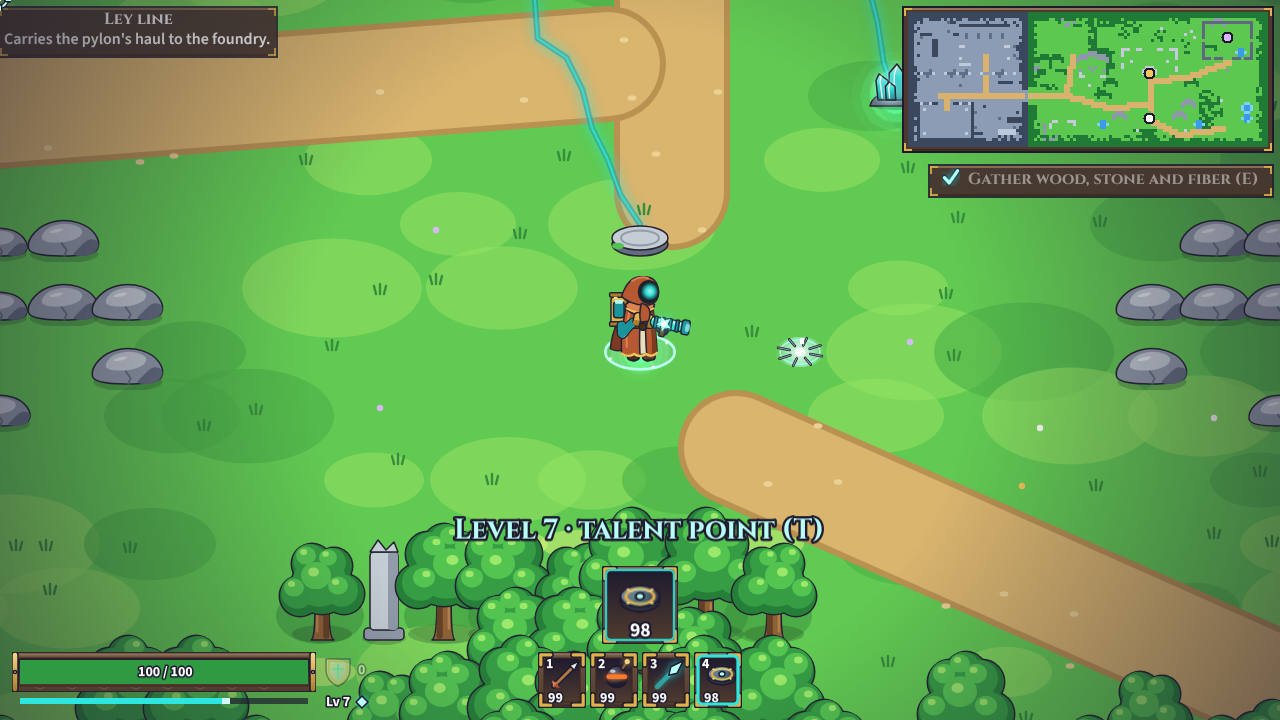
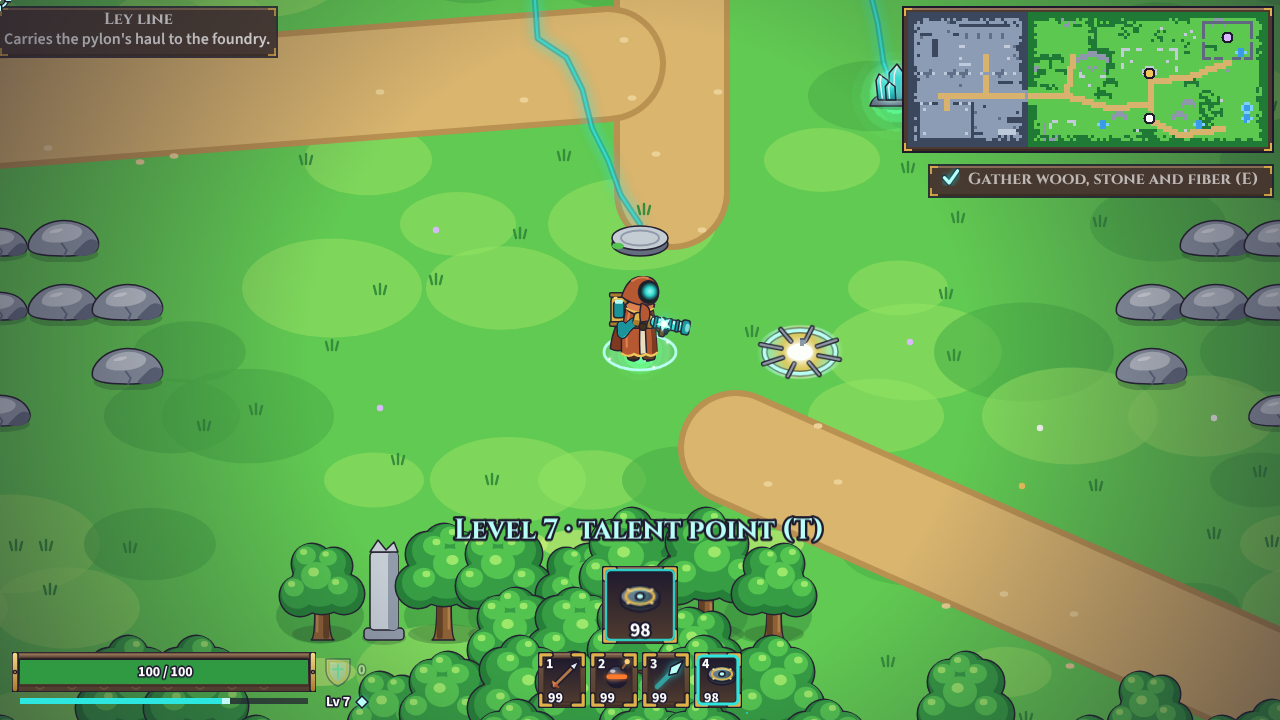
038 review: blastArea in its own file (no bombs/mines/keystones import cycle); the landmine's speed, range, arc and rate from the bomb's definition; a room change takes cluster bombs still in flight too; armMine takes the narrowed ammo; MineView's depths and the fuse's last second (TICK_RATE) as dat
Claude-Session: https://claude.ai/code/session_019emckfuk4AmLgqPgaDD5WF

diff --git a/src/data/art/mines.ts b/src/data/art/mines.ts
@@ -62,17 +62,21 @@ const BOMBLET: Shape[] = [
   ellipse(1.6, -2.4, 0.8, 0.8, { fill: 'cinder-light', glow: { color: 'cinder', blur: 2 } }),
 ];
 
-/** A burst flash `r` px round: a hot core, a ring of light and `shards` iron or ember splinters flying out. */
-function flash(r: number, core: string, rim: string, shards: number, shard: string): Shape[] {
+/**
+ * A burst flash `r` px round: a hot core fading through `mid` to the rim's colour, a bright ring of the rim's colour over
+ * a dark ink ring (so it reads over grass and stone alike) and `shards` iron or ember splinters flying out.
+ */
+function flash(r: number, core: string, mid: string, rim: string, shards: number, shard: string): Shape[] {
   return [
-    ellipse(0, 0, r, r * 0.62, { fill: { radial: [0, 0, r], stops: [{ at: 0, color: { id: core, alpha: 0.95 } }, { at: 0.55, color: { id: rim, alpha: 0.6 } }, { at: 1, color: { id: rim, alpha: 0 } }] } }),
-    ellipse(0, 0, r * 0.82, r * 0.5, { stroke: { color: { id: rim, alpha: 0.8 }, width: 1.4 }, glow: { color: rim, blur: 4 } }),
+    ellipse(0, 0, r, r * 0.62, { fill: { radial: [0, 0, r], stops: [{ at: 0, color: { id: core, alpha: 1 } }, { at: 0.4, color: { id: mid, alpha: 0.85 } }, { at: 0.75, color: { id: rim, alpha: 0.55 } }, { at: 1, color: { id: rim, alpha: 0 } }] } }),
+    ellipse(0, 0, r * 0.82, r * 0.5, { stroke: { color: { id: 'ink', alpha: 0.55 }, width: 3.4 } }),
+    ellipse(0, 0, r * 0.82, r * 0.5, { stroke: { color: rim, width: 2 }, glow: { color: rim, blur: 5 } }),
     ...Array.from({ length: shards }, (_, k) => {
       const a = (k * Math.PI * 2) / shards + 0.3;
       const [c, s] = [Math.cos(a), Math.sin(a) * 0.62];
-      return line([c * r * 0.45, s * r * 0.45, c * r * 0.95, s * r * 0.95], 1.1, shard, true);
+      return line([c * r * 0.45, s * r * 0.45, c * r * 0.95, s * r * 0.95], 1.3, shard, true);
     }),
-    ellipse(0, 0, r * 0.22, r * 0.16, flat('snow')),
+    ellipse(0, 0, r * 0.3, r * 0.2, { fill: 'snow', glow: { color: core, blur: 4 } }),
   ];
 }
 
@@ -86,6 +90,6 @@ export const MINE_SPRITES_VECTOR: readonly VectorSprite[] = [
   icon(MINE_SPRITES.itemIronPlate, IRON_PLATE),
   sprite(MINE_SPRITES.bomblet, [8, 8], [4, 4], BOMBLET),
   sprite(MINE_SPRITES.bombletShadow, [8, 4], [4, 2], [ellipse(0, 0, 2.6, 1, { fill: { id: 'ground-shade', alpha: 0.35 } })]),
-  sprite(MINE_SPRITES.mineFlash, [R * 2 + 4, R * 2 + 4], [R + 2, R + 2], flash(R, 'snow', 'cyan-glow', 8, 'iron-light')),
-  sprite(MINE_SPRITES.bombletFlash, [R * 2 + 4, R * 2 + 4], [R + 2, R + 2], flash(R, 'cinder-light', 'cinder', 6, 'cinder-light')),
+  sprite(MINE_SPRITES.mineFlash, [R * 2 + 4, R * 2 + 4], [R + 2, R + 2], flash(R, 'snow', 'gold-trim', 'cyan-glow', 8, 'iron-light')),
+  sprite(MINE_SPRITES.bombletFlash, [R * 2 + 4, R * 2 + 4], [R + 2, R + 2], flash(R, 'cinder-light', 'cinder-light', 'cinder', 6, 'cinder-light')),
 ];

diff --git a/tests/sim/mines.test.ts b/tests/sim/mines.test.ts
@@ -12,7 +12,8 @@ import { volleyShots } from '../../src/sim/volley';
 import { createSim, type SimState } from '../../src/sim/state';
 import { stepSim } from '../../src/sim/step';
 import { playerStats } from '../../src/sim/stats';
-import { arena, command, die, fireAt, HALL, HUSK, placeHusk, PLAYER_AT, run, runUntil } from './fight';
+import { fireTicksOf } from '../../src/sim/tube';
+import { arena, atEntrance, command, die, fireAt, HALL, HUSK, placeHusk, PLAYER_AT, run, runUntil } from './fight';
 
 // Landmines (038): lobbed to the aim like a bomb, they arm where they land and burst
 // `fuseTicks` later for large damage in a small radius. Only the timer sets them off;
@@ -147,6 +148,47 @@ describe('landmines', () => {
     travelTo(t, HALL, OVERWORLD.wake);
     run(t, 1);
     expect(t.mines.armed).toEqual([]);
+  });
+
+  it('vanish when the player walks through a door', () => {
+    const s = armed();
+    lay(s, PLAYER_AT.x + 100, PLAYER_AT.y);
+    atEntrance(s);
+    runUntil(s, (t) => t.roomId === FOUNDRY_ROOM, 120, { moveY: -1 });
+    expect(s.mines.armed).toEqual([]);
+  });
+
+  it('take cluster bombs still in flight with them on a room change, so no bomblets are left behind', () => {
+    const s = arena();
+    s.inventory = { 'bomb+cluster': 2 };
+    run(s, 1, { selectAmmo: 'bomb' });
+    run(s, 1, fireAt(PLAYER_AT.x + 150, PLAYER_AT.y));
+    expect(s.bombs).toHaveLength(1);
+    travelTo(s, FOUNDRY_ROOM, { tx: 5, ty: 8 });
+    let bursts = 0;
+    for (let t = 0; t < 60; t++) {
+      run(s, 1);
+      bursts += s.events.bursts.length + s.events.bombletBursts.length;
+    }
+    expect(s.bombs).toEqual([]);
+    expect(s.mines.bomblets).toEqual([]);
+    expect(bursts).toBe(0);
+  });
+
+  it("never charge Blastfletch's ground: it reads a bomb's blast", () => {
+    const s = armed();
+    s.talents = [TALENT_START, 'a1', 'a2', 'a3', 'b1', 'b2', 'b3', 'k1'];
+    lay(s, PLAYER_AT.x + 100, PLAYER_AT.y);
+    runUntil(s, (t) => t.events.mineBursts.length > 0, 320);
+    expect(s.blastCharges).toEqual([]);
+    expect(s.nextChargeId).toBe(0);
+  });
+
+  it("fire faster with Oiled Breech (all ammo's fire rate)", () => {
+    const s = armed();
+    expect(fireTicksOf(s, 'landmine')).toBe(40);
+    s.talents = [TALENT_START, 't1'];
+    expect(fireTicksOf(s, 'landmine')).toBe(Math.round(40 / 1.08));
   });
 
   it("vanish on a KO", () => {

diff --git a/src/sim/mines.ts b/src/sim/mines.ts
@@ -1,6 +1,7 @@
-import { lobbedAmmo } from '../data/ammo';
+import { lobbedAmmo, type MineAmmo } from '../data/ammo';
 import { CLUSTER, hasBehaviour } from '../data/tags';
-import { blastArea, type BombState } from './bombs';
+import { blastArea } from './blast';
+import type { BombState } from './bombs';
 import type { SimState } from './state';
 import { ofBase, playerStats } from './stats';
 import { rotate } from './volley';
@@ -58,9 +59,7 @@ export function clearMines(state: Pick<SimState, 'mines'>): void {
 }
 
 /** A landmine lands (from bombs.ts): it arms where it lies, its fuse at 0. */
-export function armMine(state: SimState, b: BombState): void {
-  const ammo = lobbedAmmo(b.ammoId);
-  if (ammo.kind !== 'mine') return;
+export function armMine(state: SimState, b: BombState, ammo: MineAmmo): void {
   const id = state.mines.nextId++;
   state.mines.armed.push({ id, ammoId: b.ammoId, roomId: b.roomId, x: b.x, y: b.y, fuse: 0, fuseTicks: ammo.fuseTicks, damage: b.damage, radius: b.radius });
   state.events.mineArms.push({ id, x: b.x, y: b.y });
@@ -95,10 +94,13 @@ export function scatterBomblets(state: SimState, b: BombState): void {
   }
 }
 
-/** The player changes area (038.8: through a door, or by travel): every armed mine and bomblet vanishes, and mines still in flight. */
+/**
+ * The player changes area (038.8: through a door, or by travel): every armed mine and bomblet vanishes, and so do
+ * mines and cluster bombs still in flight (their bomblets would only be left behind).
+ */
 export function leaveArea(state: Pick<SimState, 'mines' | 'bombs'>): void {
   clearMines(state);
-  state.bombs = state.bombs.filter((b) => lobbedAmmo(b.ammoId).kind !== 'mine');
+  state.bombs = state.bombs.filter((b) => lobbedAmmo(b.ammoId).kind !== 'mine' && !hasBehaviour(b.ammoId, 'cluster'));
 }
 
 /** Once a tick, before bombs fly (so a mine that lands this tick starts at fuse 0): bomblets count down and burst; armed fuses burn and burst. */

diff --git a/src/data/mineAssets.ts b/src/data/mineAssets.ts
@@ -1,7 +1,9 @@
 // Asset keys and look numbers for 038's art: the landmine in flight, armed on the
 // ground and bursting, its icon and the iron plate's, and the cluster bomb's bomblets.
 // Render draws by these keys; the shapes are in src/data/art/mines.ts. Times ms, sizes
-// world px, alphas 0..1, colours palette ids. No runtime imports (ammo.ts and items.ts import it).
+// world px, alphas 0..1, colours palette ids. It imports only config (ammo.ts and items.ts import it).
+
+import { TICK_RATE } from './config';
 
 export const MINE_SPRITES = {
   /** The landmine in flight, and its shadow on the ground path. */
@@ -26,13 +28,15 @@ export const MINE_LOOK = {
    * The fuse ring round an armed mine: a faint track `radius` px out, and over it an arc filling clockwise from the top
    * as the fuse burns, in `color`, turning `lateColor` over its last `lateTicks`; `width` px wide.
    */
-  fuse: { radius: 9, width: 1.5, track: 0.3, alpha: 0.95, color: 'cyan-glow', lateColor: 'danger', lateTicks: 60 },
+  fuse: { radius: 9, width: 1.5, track: 0.3, alpha: 0.95, color: 'cyan-glow', lateColor: 'danger', lateTicks: TICK_RATE },
+  /** How far above DEPTHS.groundFx an armed mine and its fuse ring draw: flat on the ground, the ring over the mine. */
+  depth: { mine: 0.1, ring: 0.2 },
   /** The armed mine's pip flashes the ring's colour, `radius` px, for half of every `blinkMs`, faster in its last `lateTicks` (tween clock). */
   pip: { radius: 1.6, blinkMs: 500, lateBlinkMs: 160 },
   /** Bomblets arc out from the burst over their delay to this peak, px. */
   bombletArc: 14,
   /** Burst flashes: grow from `from` to `to` of the radius and fade over `ms`. */
-  mineFlash: { ms: 320, from: 0.5, to: 1.15 },
+  mineFlash: { ms: 420, from: 0.9, to: 1.6 },
   bombletFlash: { ms: 220, from: 0.4, to: 1.1 },
   /** The flash sprites' own radius, px: render scales them to the burst's. */
   flashRadius: 24,

diff --git a/src/data/ammo.ts b/src/data/ammo.ts
@@ -73,6 +73,24 @@ export type AmmoDef = StraightAmmo | LobAmmo | MineAmmo;
 /** Anything that arcs to the aim: a bomb or a landmine. */
 export type LobbedAmmo = LobAmmo | MineAmmo;
 
+/** The bomb (029: a 48 px blast, no burn). The landmine (038) flies as it does. */
+const BOMB: LobAmmo = {
+  id: 'bomb',
+  kind: 'lob',
+  itemId: 'bomb',
+  base: 'bomb',
+  tags: [],
+  fireTicks: 40,
+  speed: 200,
+  maxRange: 192,
+  arcPeak: 32,
+  burstRadius: 48,
+  burstDamage: 15,
+  damageType: 'physical',
+  sprite: SPRITES.bomb,
+  shadow: SPRITES.bombShadow,
+};
+
 const BASE_AMMO: Readonly<Record<string, AmmoDef>> = {
   arrow: {
     id: 'arrow',
@@ -104,22 +122,7 @@ const BASE_AMMO: Readonly<Record<string, AmmoDef>> = {
     sprite: SPRITES.leyBolt,
     shadow: SPRITES.leyBoltShadow,
   },
-  bomb: {
-    id: 'bomb',
-    kind: 'lob',
-    itemId: 'bomb',
-    base: 'bomb',
-    tags: [],
-    fireTicks: 40,
-    speed: 200,
-    maxRange: 192,
-    arcPeak: 32,
-    burstRadius: 48,
-    burstDamage: 15,
-    damageType: 'physical',
-    sprite: SPRITES.bomb,
-    shadow: SPRITES.bombShadow,
-  },
+  bomb: BOMB,
   // 038: large damage in a small radius on a delay; lobbed with a bomb's arc, speed and range, at a bomb's rate (038.7).
   landmine: {
     id: 'landmine',
@@ -127,10 +130,10 @@ const BASE_AMMO: Readonly<Record<string, AmmoDef>> = {
     itemId: 'landmine',
     base: 'landmine',
     tags: [],
-    fireTicks: 40,
-    speed: 200,
-    maxRange: 192,
-    arcPeak: 32,
+    fireTicks: BOMB.fireTicks,
+    speed: BOMB.speed,
+    maxRange: BOMB.maxRange,
+    arcPeak: BOMB.arcPeak,
     fuseTicks: 300,
     damage: 60,
     radius: 24,

diff --git a/src/sim/bombs.ts b/src/sim/bombs.ts
@@ -1,6 +1,6 @@
-import { lobbedAmmo, type DamageType } from '../data/ammo';
+import { lobbedAmmo } from '../data/ammo';
 import { TICK_RATE, TILE_SIZE } from '../data/config';
-import { damageEnemy, targetable } from './enemies';
+import { blastArea } from './blast';
 import type { SimState } from './state';
 import { shotSealed } from './tutorial';
 import { ofBase, playerStats } from './stats';
@@ -105,7 +105,8 @@ export function stepBombs(state: SimState): void {
 
 /** Where a lobbed round comes down: a landmine arms (038), a bomb bursts. */
 function land(state: SimState, b: BombState): void {
-  if (lobbedAmmo(b.ammoId).kind === 'mine') armMine(state, b);
+  const ammo = lobbedAmmo(b.ammoId);
+  if (ammo.kind === 'mine') armMine(state, b, ammo);
   else burst(state, b);
 }
 
@@ -119,14 +120,4 @@ function burst(state: SimState, b: BombState): void {
   state.events.bursts.push({ x: b.x, y: b.y, radius: b.radius });
   chargeGround(state, b);
   scatterBomblets(state, b);
-}
-
-/** Damages every live, targetable enemy in a room whose feet are within `radius` of (x, y), flashing it without knockback; `skip` is spared. */
-export function blastArea(state: SimState, roomId: string, x: number, y: number, radius: number, damage: number, damageType: DamageType, skip: number | null = null): void {
-  const style = { knock: false, flash: true, damageType } as const;
-  for (const e of state.enemies) {
-    if (e.roomId !== roomId || e.health <= 0 || !targetable(e) || e.id === skip) continue;
-    if (Math.hypot(e.x - x, e.y - y) > radius) continue;
-    damageEnemy(state, e, damage, e.x - x, e.y - y, style);
-  }
 }

diff --git a/src/sim/blast.ts b/src/sim/blast.ts
@@ -1,0 +1,18 @@
+import type { DamageType } from '../data/ammo';
+import { damageEnemy, targetable } from './enemies';
+import type { SimState } from './state';
+
+// A lobbed burst's damage (029, 034, 037, 038): a bomb, a landmine, a bomblet or a charged
+// arrow's burst hits every live, targetable enemy round its point. It comes from above, so
+// no shield blocks it, and it never hurts the player. Its own file, so bombs, mines and the
+// keystones share it without importing each other.
+
+/** Damages every live, targetable enemy in a room whose feet are within `radius` of (x, y), flashing it without knockback; `skip` is spared. */
+export function blastArea(state: SimState, roomId: string, x: number, y: number, radius: number, damage: number, damageType: DamageType, skip: number | null = null): void {
+  const style = { knock: false, flash: true, damageType } as const;
+  for (const e of state.enemies) {
+    if (e.roomId !== roomId || e.health <= 0 || !targetable(e) || e.id === skip) continue;
+    if (Math.hypot(e.x - x, e.y - y) > radius) continue;
+    damageEnemy(state, e, damage, e.x - x, e.y - y, style);
+  }
+}

diff --git a/src/render/CraftMenuView.ts b/src/render/CraftMenuView.ts
@@ -9,13 +9,14 @@ import type { LinkState } from '../sim/link';
 import { knownRecipe } from '../sim/tutorial';
 import { count, type Inventory } from '../sim/inventory';
 
-/** What decides which recipes show and which can be made: the inventory, the attunement and the revealing items found. */
-type Known = { inventory: Inventory; link: Pick<LinkState, 'attuned'>; found: readonly string[] };
 import { craftMenuLines, craftPanelAt } from './craftMenuLayout';
 import { flashRow, RowHover, type RowFrames } from './menuFeedback';
 import { drawTablet } from './tablet';
 import { TextLine } from './textLine';
 import { addVector } from './vector/textures';
+
+/** What decides which recipes show and which can be made: the inventory, the attunement and the revealing items found. */
+type Known = { inventory: Inventory; link: Pick<LinkState, 'attuned'>; found: readonly string[] };
 
 const RECIPE_ROW_FRAMES: RowFrames = { plain: SPRITES.craftRecipeRow, hover: SPRITES.craftRecipeRowHover, press: SPRITES.craftRecipeRowPress };
 

diff --git a/src/render/MineView.ts b/src/render/MineView.ts
@@ -41,7 +41,7 @@ export class MineView {
 
   constructor(scene: Scene) {
     this.scene = scene;
-    this.rings = scene.add.graphics().setDepth(DEPTHS.groundFx + 0.2);
+    this.rings = scene.add.graphics().setDepth(DEPTHS.groundFx + MINE_LOOK.depth.ring);
   }
 
   get shown(): MinesShown {
@@ -92,7 +92,7 @@ export class MineView {
     this.shownArmed = [];
     for (const m of here ? sim.mines.armed.filter((x) => x.roomId === sim.roomId) : []) {
       live.add(m.id);
-      const image = this.armed.get(m.id) ?? addVector(this.scene, m.x, m.y, MINE_SPRITES.armed).setDepth(DEPTHS.groundFx + 0.1);
+      const image = this.armed.get(m.id) ?? addVector(this.scene, m.x, m.y, MINE_SPRITES.armed).setDepth(DEPTHS.groundFx + MINE_LOOK.depth.mine);
       this.armed.set(m.id, image.setPosition(m.x, m.y));
       const progress = Math.min(1, m.fuse / m.fuseTicks);
       const late = m.fuseTicks - m.fuse <= F.lateTicks;

diff --git a/tests/data/data.test.ts b/tests/data/data.test.ts
@@ -184,6 +184,15 @@ describe('items and ammo', () => {
 });
 
 describe('item kinds, ammo slots and recipes', () => {
+  it('reveals recipes only after real items (038: shownAfter names an item)', () => {
+    for (const r of Object.values(RECIPES)) if (r.shownAfter !== undefined) expect(ITEMS[r.shownAfter], r.id).toBeDefined();
+  });
+
+  it("lays the crafting menu's groups in columns numbered from 0 with none skipped (038.4)", () => {
+    const columns = [...new Set(CRAFT_GROUPS.map((g) => g.column))].sort((x, y) => x - y);
+    expect(columns).toEqual(columns.map((_, i) => i));
+  });
+
   it('gives every item a kind, and every ammo an ammo item', () => {
     // 033: schematics are the one new kind.
     for (const item of Object.values(ITEMS)) expect(['raw', 'part', 'ammo', 'armor', 'schematic']).toContain(item.kind);

diff --git a/src/sim/keystones.ts b/src/sim/keystones.ts
@@ -2,7 +2,7 @@ import { roundBase } from '../data/tags';
 import { BLASTFLETCH, OVERPRESSURE, SHATTERPOINT } from '../data/talents';
 import { COLD } from '../data/tags';
 import { createShard, type ArrowState } from './arrows';
-import { blastArea } from './bombs';
+import { blastArea } from './blast';
 import type { EnemyState } from './enemies';
 import type { Command } from './input';
 import type { SimState } from './state';

diff --git a/docs/plans/038-landmines-cluster.md b/docs/plans/038-landmines-cluster.md
@@ -50,3 +50,4 @@ See the spec's open questions 038.1–038.11: each proposal is built as written.
 - The crafting menu's groups carry their column in data (`CRAFT_GROUPS[].column`); `src/data/craftColumns.ts` sizes the panel from them.
 - Bomblets take the bomb's damage bonus and Wide Casing's radius when the bomb bursts (not at the throw, as the bomb's own numbers are); a respec can only happen in the foundry, where no bomb flies.
 - A landmine leaves the tube with the bomb's sound; the intake gauge shows landmines in iron and cluster bombs in a hotter ember.
+- Review: `blastArea` moved to `src/sim/blast.ts`, so bombs, mines and the keystones no longer import each other; the landmine's flight numbers come from the bomb's definition; a room change also takes cluster bombs still in flight (their bomblets would be left behind); `armMine` takes the narrowed ammo; the mine's depths and its last-second length (`TICK_RATE`) are data; the mine's flash has a warm core and a bright ring over a dark one so it reads on grass.
